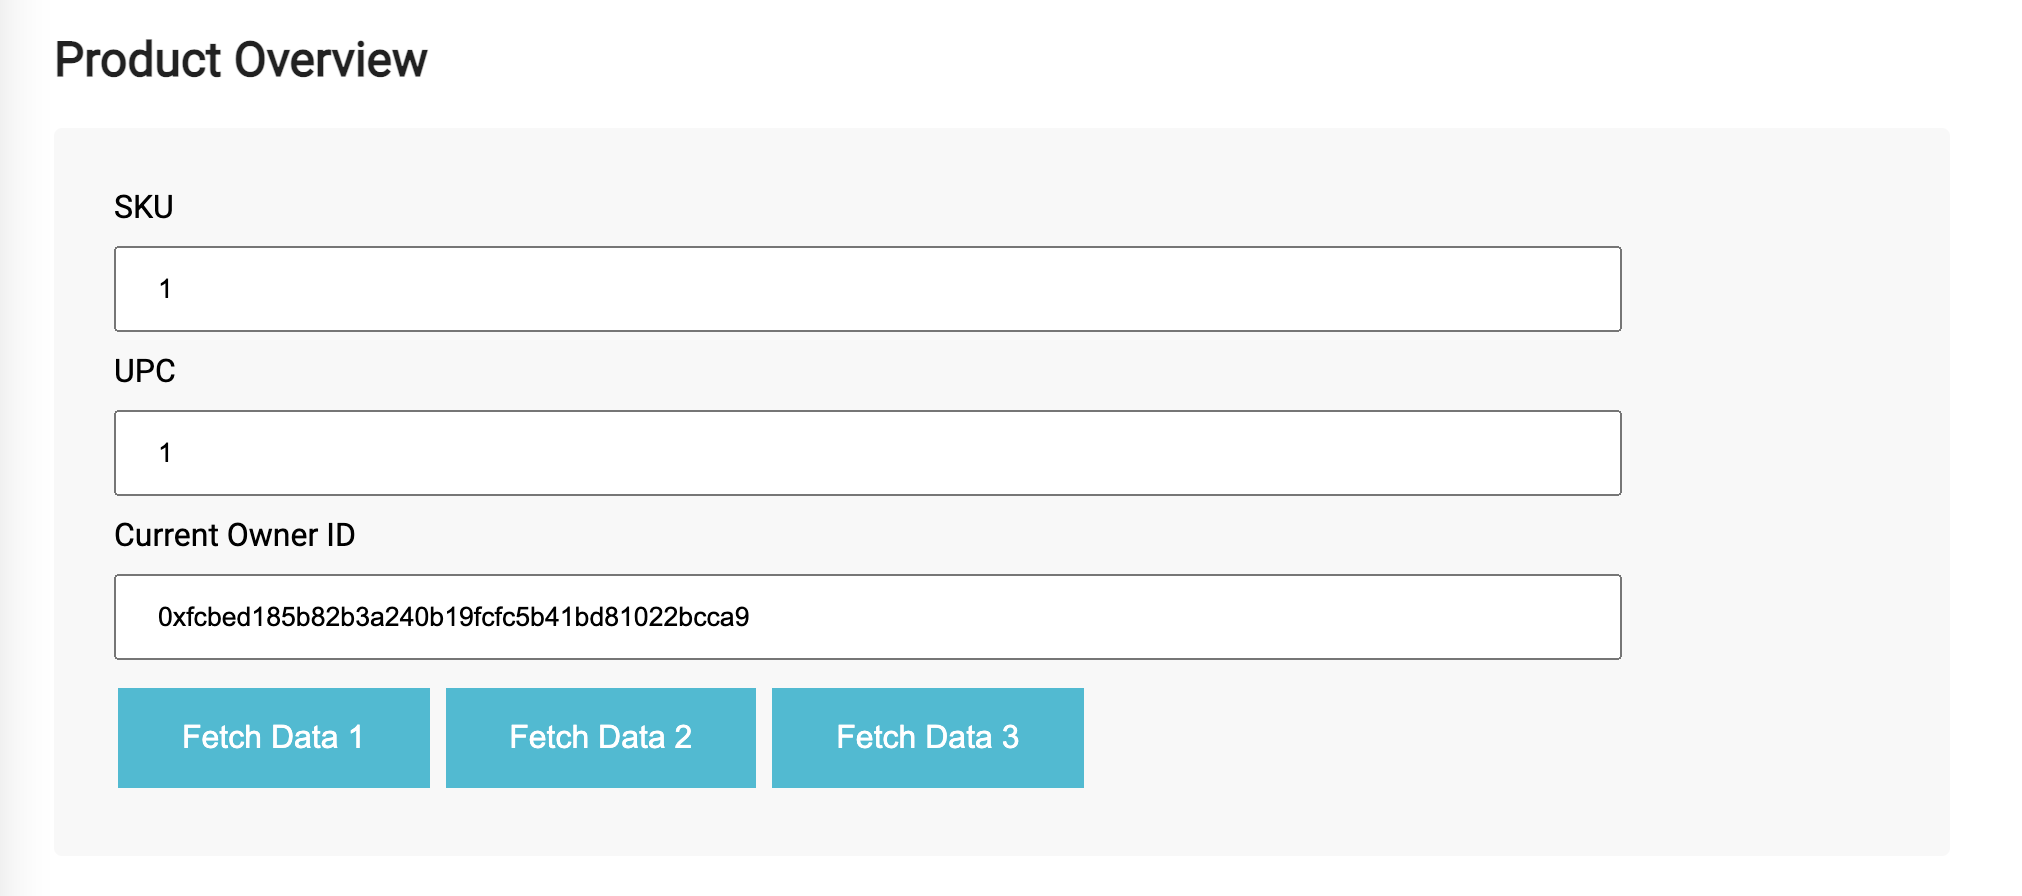
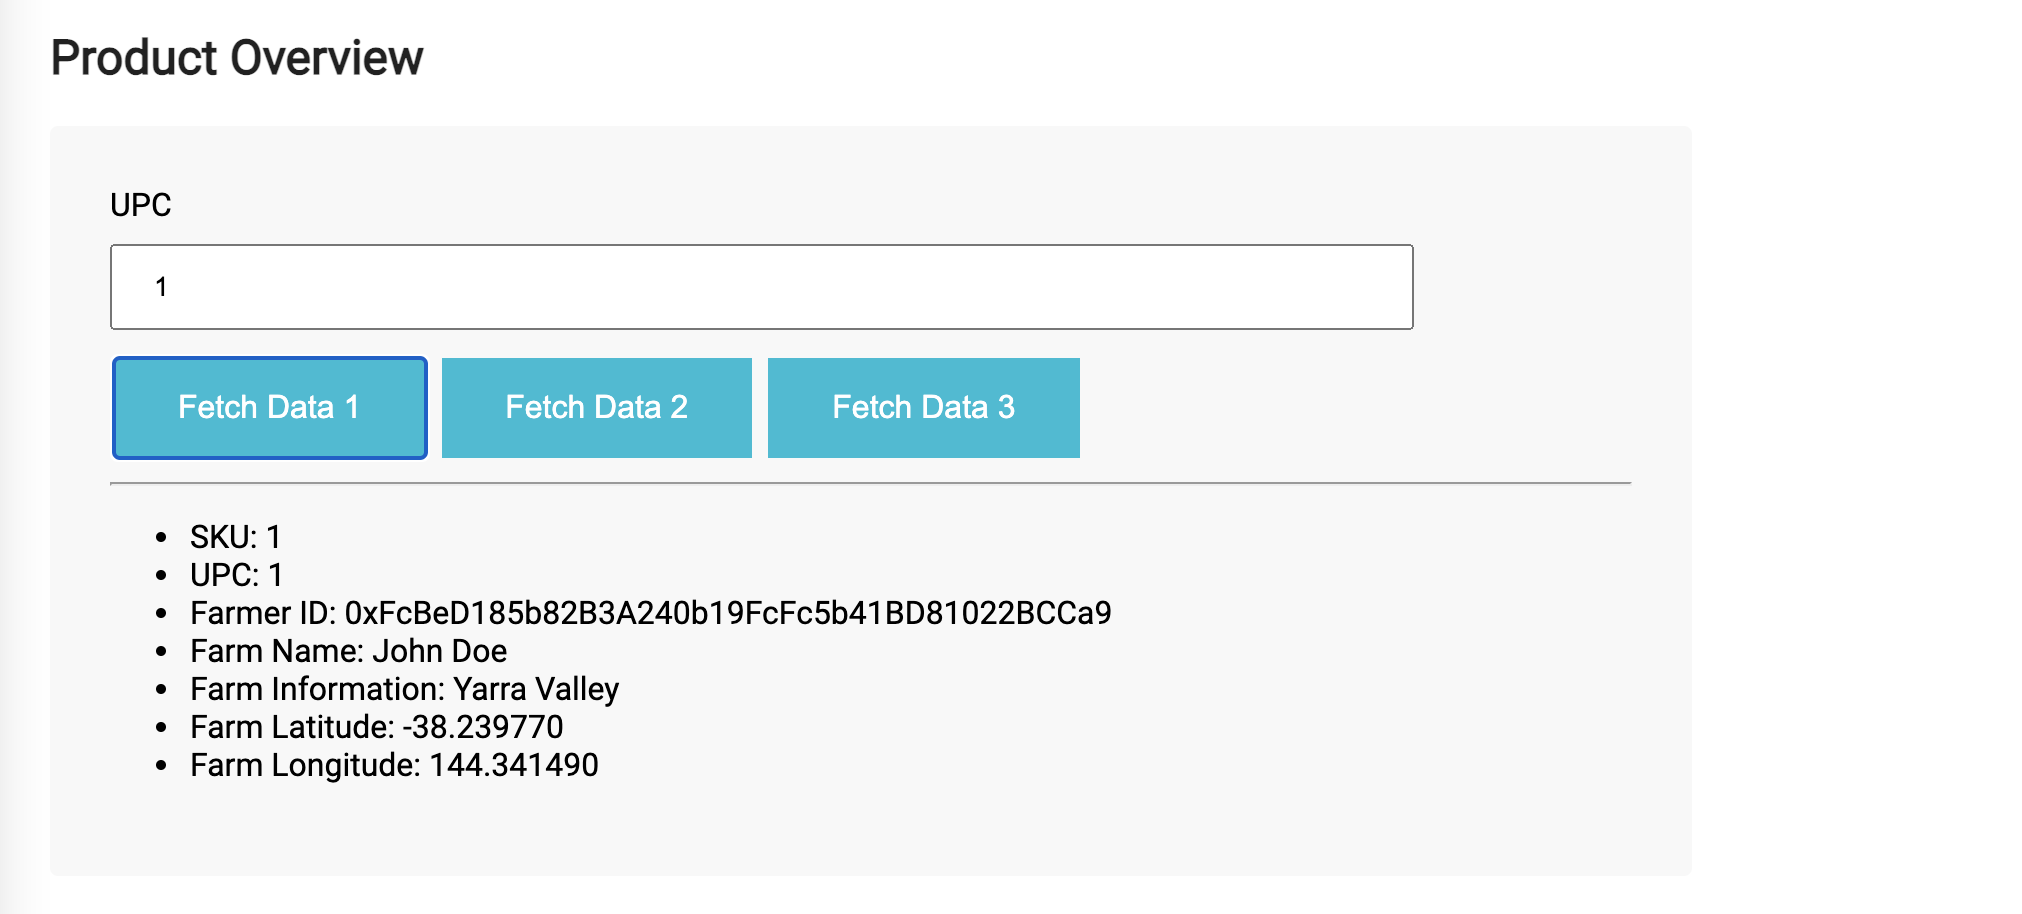
improved product overview feature

diff --git a/project-6/src/js/app.js b/project-6/src/js/app.js
@@ -24,9 +24,7 @@ App = {
     },
 
     readForm: function () {
-        App.sku = $("#sku").val();
         App.upc = $("#upc").val();
-        App.ownerID = $("#ownerID").val();
         App.originFarmerID = $("#originFarmerID").val();
         App.originFarmName = $("#originFarmName").val();
         App.originFarmInformation = $("#originFarmInformation").val();
@@ -39,9 +37,7 @@ App = {
         App.consumerID = $("#consumerID").val();
 
         console.log(
-            App.sku,
             App.upc,
-            App.ownerID,
             App.originFarmerID,
             App.originFarmName,
             App.originFarmInformation,
@@ -313,6 +309,14 @@ App = {
             return instance.fetchItemBufferOne(App.upc, {from: App.metamaskAccountID});
         }).then(function(result) {
             console.log('fetchItemBufferOne', result);
+            $("#ftc-fetch-Data").empty();
+            $("#ftc-fetch-Data").append('<li>SKU: ' + result[0] + '</li>');
+            $("#ftc-fetch-Data").append('<li>UPC: ' + result[1] + '</li>');
+            $("#ftc-fetch-Data").append('<li>Farmer ID: ' + result[2] + '</li>');
+            $("#ftc-fetch-Data").append('<li>Farm Name: ' + result[3] + '</li>');
+            $("#ftc-fetch-Data").append('<li>Farm Information: ' + result[4] + '</li>');
+            $("#ftc-fetch-Data").append('<li>Farm Latitude: ' + result[5] + '</li>');
+            $("#ftc-fetch-Data").append('<li>Farm Longitude: ' + result[6] + '</li>');
         }).catch(function(err) {
             console.log(err.message);
         });
@@ -323,6 +327,12 @@ App = {
             return instance.fetchItemBufferTwo(App.upc, {from: App.metamaskAccountID});
         }).then(function(result) {
             console.log('fetchItemBufferTwo', result);
+            $("#ftc-fetch-Data").empty();
+            $("#ftc-fetch-Data").append('<li>SKU: ' + result[0] + '</li>');
+            $("#ftc-fetch-Data").append('<li>UPC: ' + result[1] + '</li>');
+            $("#ftc-fetch-Data").append('<li>Product Id: ' + result[2] + '</li>');
+            $("#ftc-fetch-Data").append('<li>Product Notes: ' + result[3] + '</li>');
+            $("#ftc-fetch-Data").append('<li>Product Price: ' + result[4] + '</li>');
         }).catch(function(err) {
             console.log(err.message);
         });
@@ -333,6 +343,14 @@ App = {
             return instance.fetchItemBufferThree(App.upc, {from: App.metamaskAccountID});
         }).then(function(result) {
             console.log('fetchItemBufferThree', result);
+            $("#ftc-fetch-Data").empty();
+            $("#ftc-fetch-Data").append('<li>SKU: ' + result[0] + '</li>');
+            $("#ftc-fetch-Data").append('<li>UPC: ' + result[1] + '</li>');
+            $("#ftc-fetch-Data").append('<li>Current Owner ID: ' + result[2] + '</li>');
+            $("#ftc-fetch-Data").append('<li>State: ' + result[3] + '</li>');
+            $("#ftc-fetch-Data").append('<li>Distributor ID: ' + result[4] + '</li>');
+            $("#ftc-fetch-Data").append('<li>Retailer ID: ' + result[5] + '</li>');
+            $("#ftc-fetch-Data").append('<li>Consumer ID: ' + result[6] + '</li>');
         }).catch(function(err) {
             console.log(err.message);
         });

diff --git a/project-6/index.html b/project-6/index.html
@@ -19,20 +19,17 @@
     <div id="ftc-harvest">
         <h2>Product Overview</h2>
         <div class="form-group">
-            SKU
-            <br>
-            <input class="input-field" type="number" id="sku" name="sku" value=1><br>
             UPC
             <br>
             <input type="number" id="upc" name="upc" value=1><br>
-            Current Owner ID
-            <br>
-            <input type="text" id="ownerID" name="ownerID" value="0xfcbed185b82b3a240b19fcfc5b41bd81022bcca9" size="50"><br>
             <div class=button-div>
                 <button class="btn-fetchOne" id="button" type="button" data-id="9">Fetch Data 1</button>
                 <button class="btn-fetchTwo" id="button" type="button" data-id="10">Fetch Data 2</button>
                 <button class="btn-fetchThree" id="button" type="button" data-id="11">Fetch Data 3</button>
             </div>
+            <hr>
+            <ul id="ftc-fetch-Data">
+            </ul>
         </div>
         <div class=form-break></div>
         <h2>Farm Details</h2>
